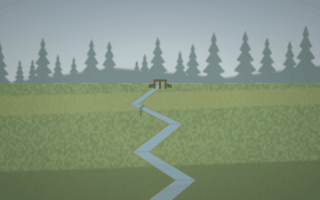
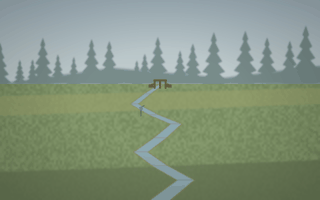
Watershed meanders, winter's surf breaks ragged; art ledger row
Polish on the two weakest renders: the estuary channel gained
intermediate bend points and narrower reach widths; the winter
surf bands trade ruler-straight edges for rng-raggged wavefronts,
and the leaning spruces became stepped-tier trees sheared by the
wind instead of bare triangles.

Drafting ledger gains the slowstick-art row: draft 1 shipped
(ten PNGs, five surfaces wired PNG-first), draft 2 is the Deck
sign-off on Salmonberry's register, then AI-painted sources
through art_studio.html replace the procedural placeholders scene
by scene.

Claude-Session: https://claude.ai/code/session_01R3bSM67DFWoUu4UxFBU7g1

diff --git a/godot/tools/art/scene_painter.py b/godot/tools/art/scene_painter.py
@@ -434,9 +434,12 @@ def salmonberry_winter(H, W):
     arr[:] = arr * (1 - seam) + sea * seam
     tex(arr, seam[:, :, 0], 34, seed=17, scale=5)
     # three surf bands driving in
+    rngb = np.random.default_rng(27)
     for i in range(3):
         by = hz + 14 + i * int(H * 0.09)
-        fill_poly(arr, [(0, by), (W, by - 6), (W, by + 8 + i * 3), (0, by + 12 + i * 4)], C["foam"], blur=2.5, opacity=0.55 - i * 0.1)
+        pts_top = [(W * t / 8.0, by + rngb.integers(-8, 9) - 4) for t in range(9)]
+        pts_bot = [(W * t / 8.0, by + 10 + i * 4 + rngb.integers(-6, 7)) for t in range(8, -1, -1)]
+        fill_poly(arr, pts_top + pts_bot, C["foam"], blur=3.5, opacity=0.5 - i * 0.09)
     # the stacks in spray
     for (cx, sh, sw) in [(W * 0.42, H * 0.28, W * 0.05), (W * 0.52, H * 0.18, W * 0.033)]:
         base = hz + 10
@@ -447,11 +450,27 @@ def salmonberry_winter(H, W):
     rng = np.random.default_rng(19)
     x = int(W * 0.02)
     while x < W * 0.3:
-        h = rng.integers(int(H * 0.08), int(H * 0.16))
-        base = int(H * 0.44) + rng.integers(-8, 9)
-        lean = int(h * 0.35)
-        fill_poly(arr, [(x + lean, base - h), (x + 16, base), (x - 10, base)], (38, 50, 42), blur=0.8)
-        x += rng.integers(20, 42)
+        h = int(rng.integers(int(H * 0.08), int(H * 0.16)))
+        base = int(H * 0.46) + int(rng.integers(-8, 9))
+        lean = int(h * 0.30)
+        # a leaning spruce: stepped tiers like spruce(), sheared
+        steps = 4
+        pts = [(x + lean, base - h)]
+        for s2 in range(steps):
+            yy = base - h + h * (s2 + 1) / steps
+            wid = 6 + 10 * (s2 + 1) / steps
+            sh = lean * (1 - (s2 + 1) / steps)
+            pts.append((x + sh + wid, yy))
+            pts.append((x + sh + wid * 0.45, yy + 2))
+        pts.append((x, base))
+        for s2 in range(steps - 1, -1, -1):
+            yy = base - h + h * (s2 + 1) / steps
+            wid = 6 + 10 * (s2 + 1) / steps
+            sh = lean * (1 - (s2 + 1) / steps)
+            pts.append((x + sh - wid * 0.45, yy + 2))
+            pts.append((x + sh - wid, yy))
+        fill_poly(arr, pts, (38, 50, 42), blur=0.8)
+        x += int(rng.integers(22, 44))
     # rain streaks
     streak = noise(H, W, scale=2, seed=23, blur=0)
     arr[:] = arr + ((streak[:, :, None] - 0.5) * 6)
@@ -472,10 +491,13 @@ def estuary4_watershed(H, W):
     fill_poly(arr, [(0, hz + H * 0.06), (W, hz + H * 0.02), (W, hz + H * 0.10), (0, hz + H * 0.16)], (150, 160, 108), blur=3, opacity=0.7)
     fill_poly(arr, [(0, H * 0.86), (W, H * 0.8), (W, H), (0, H)], (108, 124, 88), blur=3, opacity=0.8)
     # the channel: a winding pale-blue band, mud edges
-    ch = [(W * 0.5, hz + 4), (W * 0.42, H * 0.52), (W * 0.55, H * 0.62), (W * 0.44, H * 0.76), (W * 0.58, H * 0.9), (W * 0.5, H)]
+    ch = [(W * 0.5, hz + 4), (W * 0.46, H * 0.47), (W * 0.42, H * 0.52),
+          (W * 0.48, H * 0.575), (W * 0.55, H * 0.62), (W * 0.50, H * 0.69),
+          (W * 0.44, H * 0.76), (W * 0.50, H * 0.83), (W * 0.58, H * 0.9),
+          (W * 0.54, H * 0.95), (W * 0.5, H)]
     for i in range(len(ch) - 1):
         (x0, y0), (x1, y1) = ch[i], ch[i + 1]
-        wd0 = 10 + i * 7; wd1 = 10 + (i + 1) * 7
+        wd0 = 8 + i * 3; wd1 = 8 + (i + 1) * 3
         fill_poly(arr, [(x0 - wd0 - 6, y0), (x1 - wd1 - 6, y1), (x1 + wd1 + 6, y1), (x0 + wd0 + 6, y0)], (146, 128, 96), blur=2, opacity=0.8)
         fill_poly(arr, [(x0 - wd0, y0), (x1 - wd1, y1), (x1 + wd1, y1), (x0 + wd0, y0)], (140, 168, 176), blur=1.5)
     # the tide gate at the channel head: timber frame + wing walls

diff --git a/lore/_IMPROVEMENT_ROADMAP.md b/lore/_IMPROVEMENT_ROADMAP.md
@@ -180,6 +180,7 @@ Current ledger (draft counts are honest, not aspirational):
 | Vol 7 cabin set (cabin_interior + cabin_road) | 3 (hero props 08-12: bowls/crow/drones; wear-personality pass 08-19: Olaf's decades vs Tem's weeks — the two-age wear vocabulary) | draft 5: Deck screenshots of wear + through-window reads (Sitka band S, lean-to/creek strip N — D5 shipped 08-19; cabin_road D2 shipped 08-19: centerline fragments, one truck's tire lines, the parking fan + oil shadow, needle drift, moss seam) | next: Deck screenshot loop, then cabin_road D5 horizon check |
 | Lena's apartment (vol7) | 3 (hero props 08-12/19: easel+canvas, nebula+patches; wear pass 08-19: three-years-alone vocabulary — narrow single path, cone rings, paint constellation in HER palette, 61° props, crowding shown in objects not floor) | draft 4: Deck check of easel/mural/window inserts; D3 cords (easel lamp? none yet — she works in window light, verify that reads); bedroom wear |
 | Miller kitchen (vol6) | 4 (wear 08-19; D3 infra 08-19: door switch, counter duplexes, under-cab + microwave cords, the landline's OLD four-pin jack low on the wall — the wire predates the remodel — floor vent) | draft 5: Deck check ch6/ch11 opens + through-window reads (garage lit window E, cul-de-sac N — D5 shipped 08-19); sink_light insert at 4:32 mood |
+| Slowstick SVGA art (2026-07 direction) | 1 SHIPPED (painter registry 3→10; ten era-filtered PNGs live in assets/art; Salmonberry title+seasonal backdrop, E4/Northwind titles, FeyFaire gate all wired PNG-first with fallbacks kept; grad_poly + drop_shadow primitives; sources kept for re-filtering) | draft 2: Deck sign-off on Salmonberry's register; then AI-painted sources through art_studio.html replace the procedural ones scene by scene; town/store interiors need the most; remaining studios (pirate_summer, tideline, spiderdrops, earthman, basilica, hane_no_niwa) |
 | Cedar tower (vol7 ch22) | 4 (D2 wear 08-19: lobby's single line + chairless desk dust, studio chair spots + one desk's coffee rings, quarters' five-of-twelve seats, and the portal landing where wear STOPS at the door) | draft 5: Deck reframe of the five presets + seven vn_shot setups; D3 cords (rack power, desk cables) |
 | Graustark ruin quarter / riverfront park | 3 (per-chapter vantages 08-11: chalk wall / cottage / wreck / wide; ~~ruin cameras untuned~~; ~~park lamp practicals~~ shipped in riverfront.tscn) | draft 4: Deck screenshots of the four chapter opens + the lamplit jog path; then ruin-quarter D2 wear |
 | CP region banners + agent busts | 2 (plan SHIPPED — verified in code 2026-08-03: banners incl. county_seat, tower variants, roster + dossier busts) | banner art iteration vs the SVGA bar; authored face overrides for marquee agents |
